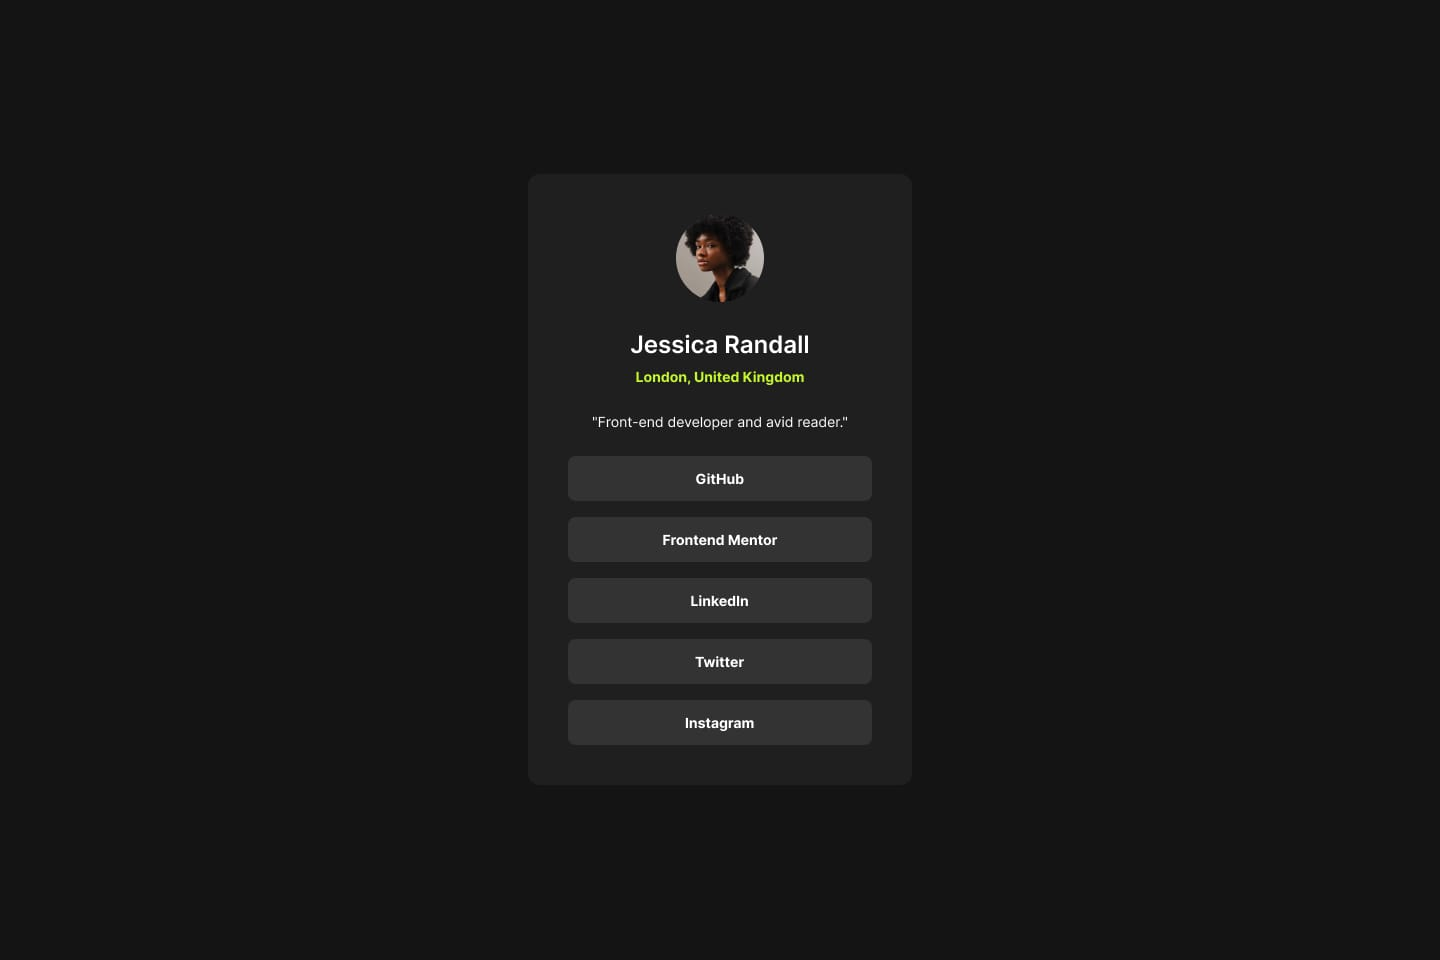
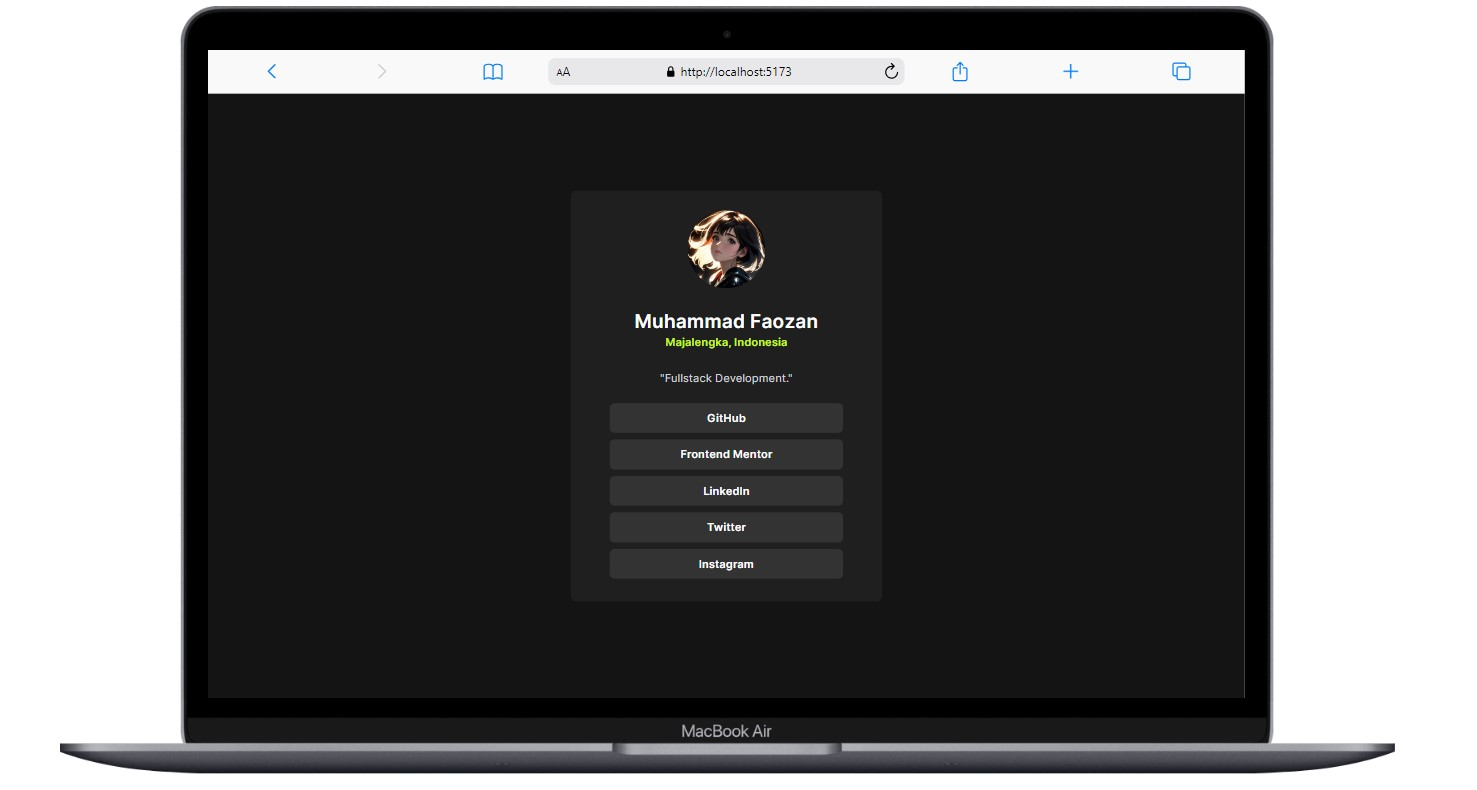
frontend finish

diff --git a/front_end/src/components/ProfileComponent.jsx b/front_end/src/components/ProfileComponent.jsx
@@ -1,14 +1,14 @@
 import React, { useEffect, useState } from "react";
-import avatar from "../assets/images/avatar-jessica.jpeg";
 import axios from "axios";
 
 function ProfileComponent() {
-  const [data, setData] = useState([]);
+  const [data, setData] = useState(null);
+  const api = import.meta.env.VITE_API
+
   async function fetchData() {
     try {
-      const res = await axios.get("http://localhost:3066/api/get");
-      console.log(res.data.payload);
-      setData(res.data.payload);
+      const res = await axios.get(`${api}/api/get`);
+      setData(res.data.payload[0]);
     } catch (error) {
       console.log(error);
     }
@@ -19,30 +19,41 @@ function ProfileComponent() {
   }, []);
 
   return (
-    <div className="bg-neutral-off-black w-screen h-screen items-center flex">
-      <div className="bg-neutral-dark-grey flex m-auto h-auto justify-center rounded-md w-96 flex-col text-neutral-white text-center">
-        <div>
-          <img src={avatar} alt="" className="rounded-full w-24 my-6 mx-auto" />
-          <h1 className="text-2xl font-semibold">Jessica Randall</h1>
-          <h3 className="text-primary-green font-semibold ">
-            London, United Kingdom
-          </h3>
-        </div>
-        <div className="mt-2 mb-6">
-          <p className="my-4 text-gray-300">
-            "Front-end developer and avid reader."
-          </p>
+    <div className="bg-neutral-off-black w-screen h-screen items-center px-3 flex">
+      {data ? (
+        <div className="bg-neutral-dark-grey flex m-auto h-auto justify-center rounded-md w-96 flex-col text-neutral-white text-center">
           <div>
-            {data.map((item) => (
-              <div className="flex flex-col items-center gap-3 py-1">
-                <h1 className="bg-neutral-grey w-3/4 rounded-md py-2 font-semibold">
-                  {item.app}
-                </h1>
-              </div>
+            <img
+              src={data.image}
+              alt="girl_01__by_tamako_monomi_dgg4qnt.png"
+              title="by_tamako_monomi"
+              className="hover:cursor-pointer rounded-full w-24 my-6 mx-auto"
+            />
+            <h1 className="text-2xl font-semibold">{data.name}</h1>
+            <h3 className="text-primary-green font-semibold ">
+              {data.address}
+            </h3>
+          </div>
+          <div className="mt-2 mb-6">
+            <p className="my-4 text-gray-300">"{data.information}."</p>
+            {data.app.map((app) => (
+              <a href={app.link} key={app._id}>
+                <div>
+                  <div className="flex flex-col items-center py-1 hover:bg-neutral-off-black transition hover:-translate-y-1 duration-300">
+                    <h1 className="bg-neutral-grey w-3/4 rounded-md py-2 font-semibold transition ease-in-out delay-150 hover:scale-110  duration-300 hover:-translate-y-1 hover:bg-neutral-off-black">
+                      {app.name}
+                    </h1>
+                  </div>
+                </div>
+              </a>
             ))}
           </div>
         </div>
-      </div>
+      ) : (
+        <div className="flex justify-center text-center text-neutral-white m-auto">
+          <p className="text-3xl font-semibold">Loading...</p>
+        </div>
+      )}
     </div>
   );
 }

diff --git a/front_end/src/components/Test.jsx b/front_end/src/components/Test.jsx
@@ -1,0 +1,48 @@
+import React, { useState, useEffect } from 'react';
+
+const Test = () => {
+  const [userData, setUserData] = useState(null);
+
+  useEffect(() => {
+    const fetchData = async () => {
+      try {
+        const response = await fetch('http://localhost:3066/api/get'); // Ganti dengan URL API sesuai kebutuhan
+        const data = await response.json();
+
+        // Data berhasil diambil
+        setUserData(data.payload[0]);
+        console.log(data.payload)
+      } catch (error) {
+        console.error('Error fetching data:', error);
+      }
+    };
+
+    fetchData();
+  }, []); // Empty dependency array ensures useEffect runs once on mount
+
+  return (
+    <div>
+      {userData ? (
+        <div>
+          <img src={userData.image} alt={userData.name} />
+          <h2>{userData.name}</h2>
+          <p>{userData.address}</p>
+          <p>{userData.information}</p>
+          <ul>
+            {userData.app.map((app) => (
+              <li key={app._id}>
+                <a href={app.link} target="_blank" rel="noopener noreferrer">
+                  {app.name}
+                </a>
+              </li>
+            ))}
+          </ul>
+        </div>
+      ) : (
+        <p>Loading...</p>
+      )}
+    </div>
+  );
+};
+
+export default Test;

diff --git a/front_end/src/App.jsx b/front_end/src/App.jsx
@@ -4,7 +4,7 @@ import ProfileComponent from "./components/ProfileComponent";
 function App() {
   return (
     <>
-      <ProfileComponent/>
+      <ProfileComponent />
     </>
   );
 }
